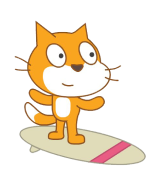
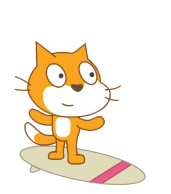
interiw withPic pic fix

Changed region(s): [[0.0764, 0.1149, 0.9427, 0.977], [0.0764, 0.3161, 0.1529, 0.3448]]

diff --git a/styles/style.scss b/styles/style.scss
@@ -103,10 +103,11 @@ html {
                     display: block;
                     background-size: cover;
                     position: absolute;
-                    left: -6.7em;
+                    left: -5.8em;
                     top: 0;
                     bottom: 0;
                     margin: auto;
+                    background-position: bottom;
                 }
             }
         }
